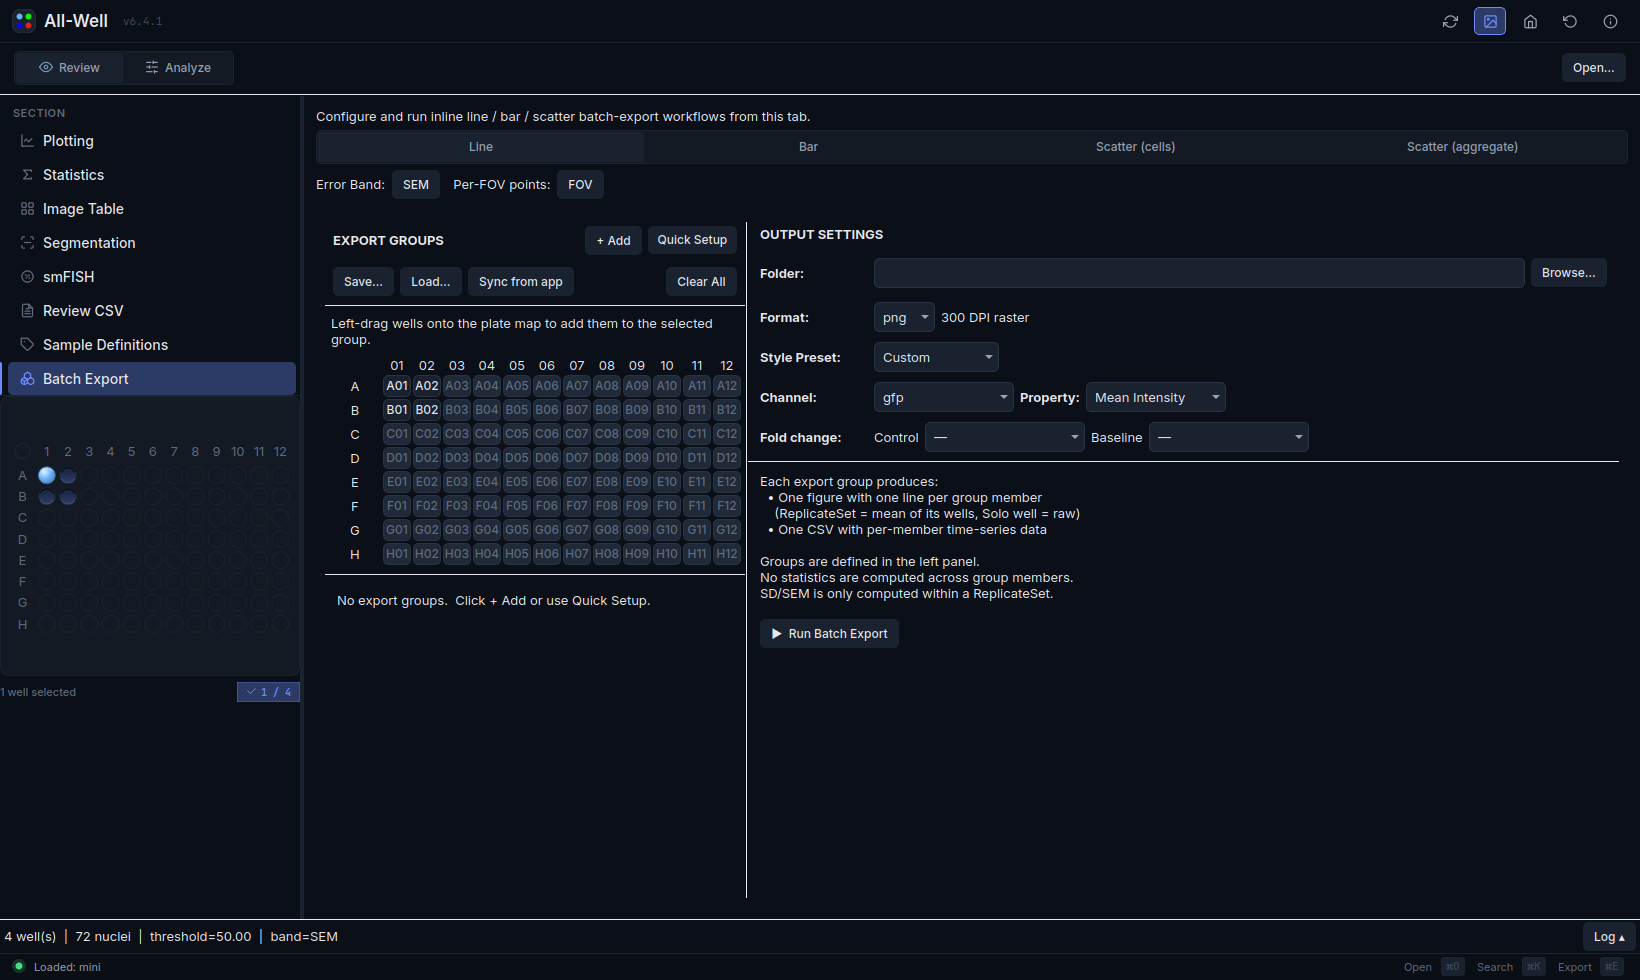
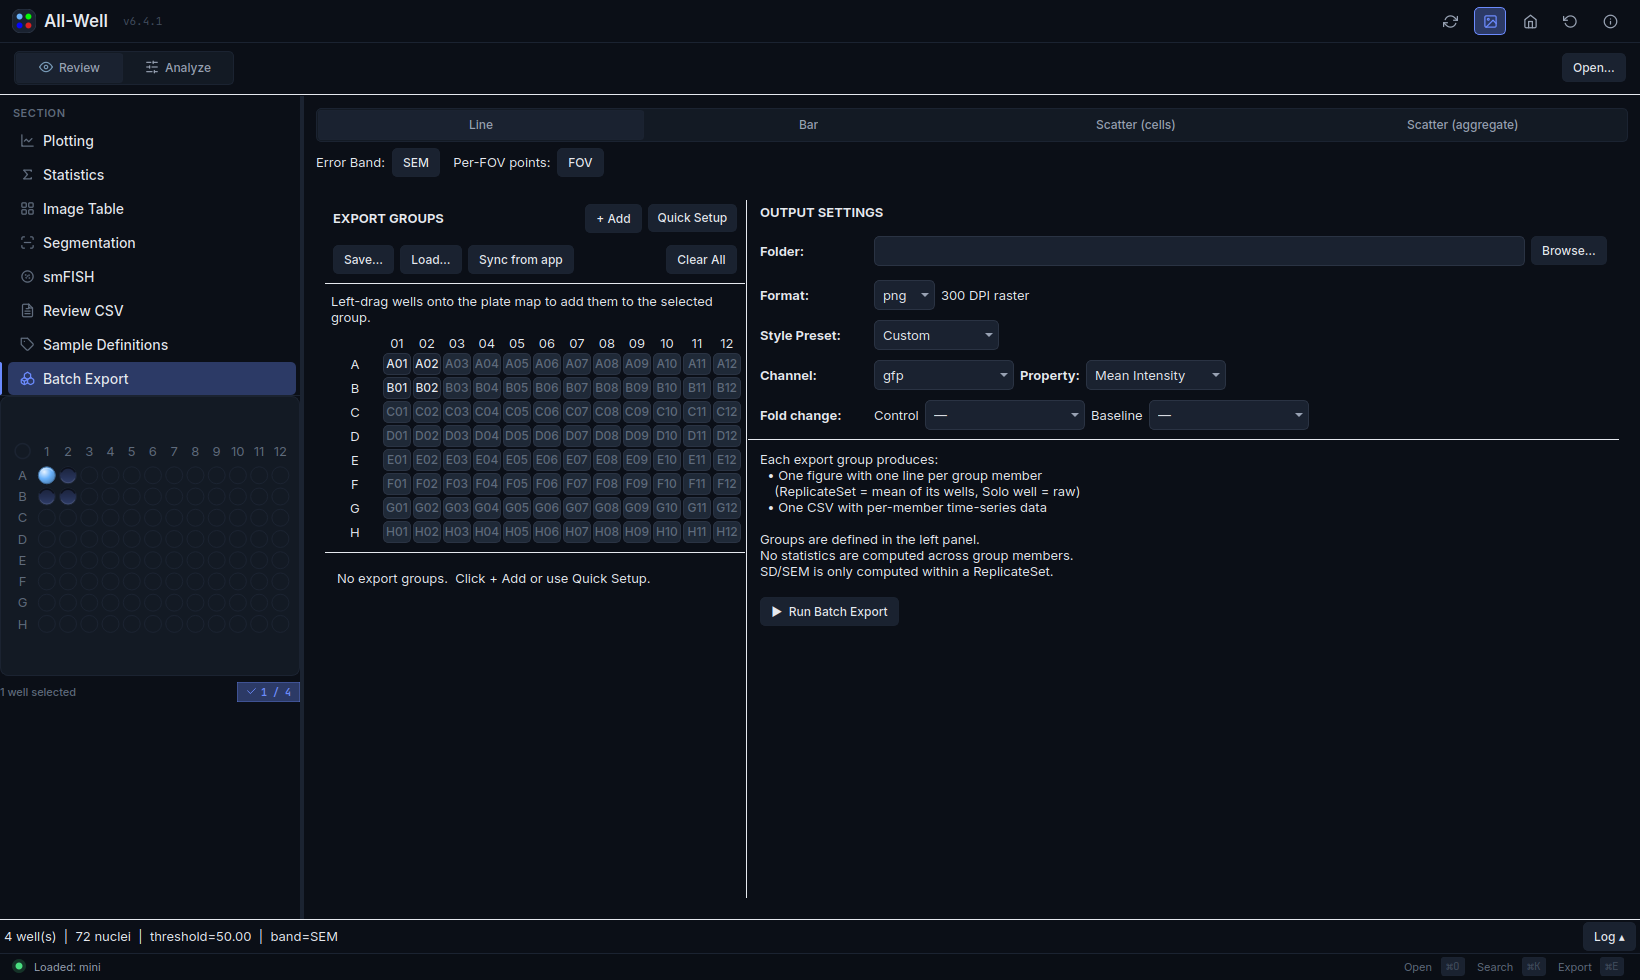
Batch Export: drop the redundant description line
Its first element is now the mode selector, so the tab's first content lands at
the same ~12px top as the other flat tabs (was ~9px higher because the thin
description label's text caps sat above the other tabs' control-row boxes).

Changed region(s): [[0.1866, 0.0918, 0.9951, 0.6735], [0.8396, 0.1224, 0.9329, 0.1531], [0.653, 0.1224, 0.7152, 0.1531]]

diff --git a/well_viewer/features/batch_export/tab_view.py b/well_viewer/features/batch_export/tab_view.py
@@ -147,15 +147,6 @@ def build_batch_export_tab(ctx, parent: QWidget) -> None:
         parent.setLayout(layout)
     layout.setContentsMargins(12, 12, 12, 12)
 
-    subtitle = QLabel(
-        "Configure and run inline line / bar / scatter batch-export workflows "
-        "from this tab.",
-        parent,
-    )
-    subtitle.setObjectName("Muted")
-    subtitle.setWordWrap(True)
-    layout.addWidget(subtitle)
-
     # v2: pick-one mode via SegmentedControl instead of a row of toggle
     # QPushButtons. Each segment carries the mode key in data; currentChanged
     # routes to the appropriate _open_*_batch_export entrypoint. The chart-type
